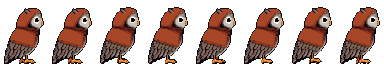
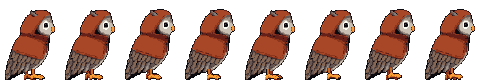
Hibou et loup à l'échelle du renard ; le garde grandit en descendant le chemin (6 tailles dessinées, perspective)
Claude-Session: https://claude.ai/code/session_01HCbDz4etyP97sjr9GSKctV

diff --git a/src/scene/garde.ts b/src/scene/garde.ts
@@ -53,6 +53,11 @@ export type Garde = {
   corps: HTMLElement;
   lanterne: HTMLElement | null;
   lueur: HTMLElement | null;
+  /** Les dessins du garde et de sa lanterne : une image par taille (perspective). */
+  sprite: Sprite;
+  spriteLanterne: Sprite | null;
+  /** Taille montrée (index dans GARDE.tailles), -1 = aucune encore. */
+  taille: number;
   ancre: [number, number];
   /** Distance parcourue sur le chemin, en pixels. */
   d: number;
@@ -93,22 +98,16 @@ export function creerGarde(m: Manifeste): Garde {
   corps.append(s.el);
   let lanterne: HTMLElement | null = null;
   let lueur: HTMLElement | null = null;
+  let spriteLanterne: Sprite | null = null;
   const al = m.assets['garde-lanterne'];
   if (a.src && al?.src) {
     // La lanterne pend à la main : elle oscille autour de son anneau (le haut de la chaîne).
-    lanterne = new Sprite(al, 'lanterne').el;
+    spriteLanterne = new Sprite(al, 'lanterne');
+    lanterne = spriteLanterne.el;
     lanterne.classList.add('garde-lanterne');
-    const [px, py] = al.ancre ?? [Math.round(al.largeur / 2), 0];
-    lanterne.style.left = `${GARDE.lanterne.x}px`;
-    lanterne.style.top = `${GARDE.lanterne.y}px`;
-    lanterne.style.transformOrigin = `${px}px ${py}px`;
     // Sa lueur chaude, qui vacille.
     lueur = document.createElement('div');
     lueur.className = 'garde-lueur';
-    const r = GARDE.lueur;
-    lueur.style.width = lueur.style.height = `${r * 2}px`;
-    lueur.style.left = `${GARDE.lanterne.x + Math.round(al.largeur / 2) - r}px`;
-    lueur.style.top = `${GARDE.lanterne.y + Math.round(al.hauteur * 0.6) - r}px`;
     corps.append(lanterne);
   }
   retourne.append(corps);
@@ -120,7 +119,33 @@ export function creerGarde(m: Manifeste): Garde {
   el.style.zIndex = '10';
   el.hidden = true;
   const ancre: [number, number] = a.ancre ?? [Math.round(a.largeur / 2), a.hauteur];
-  return { el, retourne, corps, lanterne, lueur, ancre, d: 0, sens: 1, actif: false, t: 0 };
+  return { el, retourne, corps, lanterne, lueur, sprite: s, spriteLanterne, taille: -1, ancre, d: 0, sens: 1, actif: false, t: 0 };
+}
+
+/** Taille du garde à la ligne y : la perspective (0 à l'horizon, 1 à la place du renard), arrondie à la plus proche des tailles dessinées. */
+export function tailleA(y: number): number {
+  const e = (y - GARDE.horizon) / (GARDE.yTailleReelle - GARDE.horizon);
+  let meilleure = 0;
+  GARDE.tailles.forEach((t, i) => {
+    if (Math.abs(t.echelle - e) < Math.abs(GARDE.tailles[meilleure].echelle - e)) meilleure = i;
+  });
+  return meilleure;
+}
+
+function montrerTaille(g: Garde, i: number): void {
+  if (g.taille === i) return;
+  g.taille = i;
+  g.sprite.montrer(i);
+  const t = GARDE.tailles[i];
+  if (g.spriteLanterne && g.lanterne && g.lueur) {
+    g.spriteLanterne.montrer(i);
+    g.lanterne.style.left = `${t.lanterne[0]}px`;
+    g.lanterne.style.top = `${t.lanterne[1]}px`;
+    g.lanterne.style.transformOrigin = `${t.pivot[0]}px ${t.pivot[1]}px`;
+    g.lueur.style.width = g.lueur.style.height = `${t.lueur * 2}px`;
+    g.lueur.style.left = `${t.lanterne[0] + t.pivot[0] - t.lueur}px`;
+    g.lueur.style.top = `${t.lanterne[1] + Math.round(t.lueur * 0.35) - t.lueur}px`;
+  }
 }
 
 /** Avance le garde sur son chemin ; renvoie la phase pour que la scène cache les animaux et baisse le feu. */
@@ -131,12 +156,14 @@ export function avancerGarde(g: Garde, dt: number): 'absent' | 'passe' {
   const parcouru = g.t * GARDE.vitesse;
   g.d = g.sens === 1 ? parcouru : total - parcouru;
   const p = surLeChemin(GARDE.chemin, g.d);
+  // Au fond il est petit ; il grandit en approchant de la clairière.
+  montrerTaille(g, tailleA(p.y));
   // Son dessin regarde à gauche : on le retourne quand il va vers la droite.
   const versDroite = p.dx * g.sens > 0;
   g.retourne.style.transform = versDroite ? 'scaleX(-1)' : '';
   // Un pas : le corps se soulève d'un pixel, la lanterne balance à contretemps, la flamme vacille.
   const pas = g.t * GARDE.pasParSeconde * Math.PI;
-  const levee = Math.round(Math.abs(Math.sin(pas)) * GARDE.levee);
+  const levee = Math.round(Math.abs(Math.sin(pas)) * GARDE.levee * GARDE.tailles[g.taille].echelle);
   g.corps.style.transform = `translateY(${-levee}px)`;
   if (g.lanterne) g.lanterne.style.transform = `rotate(${(Math.sin(pas - 0.6) * GARDE.balancement).toFixed(1)}deg)`;
   if (g.lueur) {

diff --git a/src/scene/reglages.ts b/src/scene/reglages.ts
@@ -60,7 +60,7 @@ export const FEU = {
 
 export const GARDE = {
   /** Vitesse du garde sur le chemin, en pixels par seconde (lente : il est loin). */
-  vitesse: 14,
+  vitesse: 18,
   /** Le chemin peint dans la forêt (points des pieds) : il sort des arbres au fond et descend en lacets jusqu'à l'herbe de la clairière. */
   chemin: [[322, 264], [330, 269], [326, 274], [314, 278], [296, 282], [279, 287], [277, 292], [290, 296], [304, 300], [306, 307]] as [number, number][],
   /** Délai avant son arrivée, à l'ouverture (après l'intro du renard s'il y en a une). */
@@ -70,11 +70,19 @@ export const GARDE = {
   /** Pas par seconde (le corps se soulève à chaque pas). */
   pasParSeconde: 1.6,
   /** Hauteur du soulèvement, en pixels. */
-  levee: 1,
+  levee: 3,
   /** Oscillation de la lanterne, en degrés de chaque côté. */
   balancement: 9,
-  /** Où pend la lanterne dans le dessin du garde (coin haut gauche de son image). */
-  lanterne: { x: 0, y: 25 },
-  /** Rayon de la lueur de la lanterne. */
-  lueur: 20,
+  /** Perspective : ligne où il serait minuscule (l'horizon), et ligne où il a sa taille réelle (celle du renard, 88 px). */
+  horizon: 204,
+  yTailleReelle: 368,
+  /** Ses tailles dessinées (une image chacune dans garde.png et lanterne.png) : échelle, coin de la lanterne et son anneau, rayon de la lueur. */
+  tailles: [
+    { echelle: 0.36, lanterne: [19, 73], pivot: [2, 0], lueur: 16 },
+    { echelle: 0.42, lanterne: [17, 71], pivot: [2, 0], lueur: 19 },
+    { echelle: 0.48, lanterne: [16, 68], pivot: [3, 0], lueur: 22 },
+    { echelle: 0.55, lanterne: [14, 66], pivot: [4, 0], lueur: 25 },
+    { echelle: 0.62, lanterne: [11, 62], pivot: [4, 0], lueur: 28 },
+    { echelle: 0.7, lanterne: [8, 59], pivot: [4, 0], lueur: 32 },
+  ] as { echelle: number; lanterne: [number, number]; pivot: [number, number]; lueur: number }[],
 };
